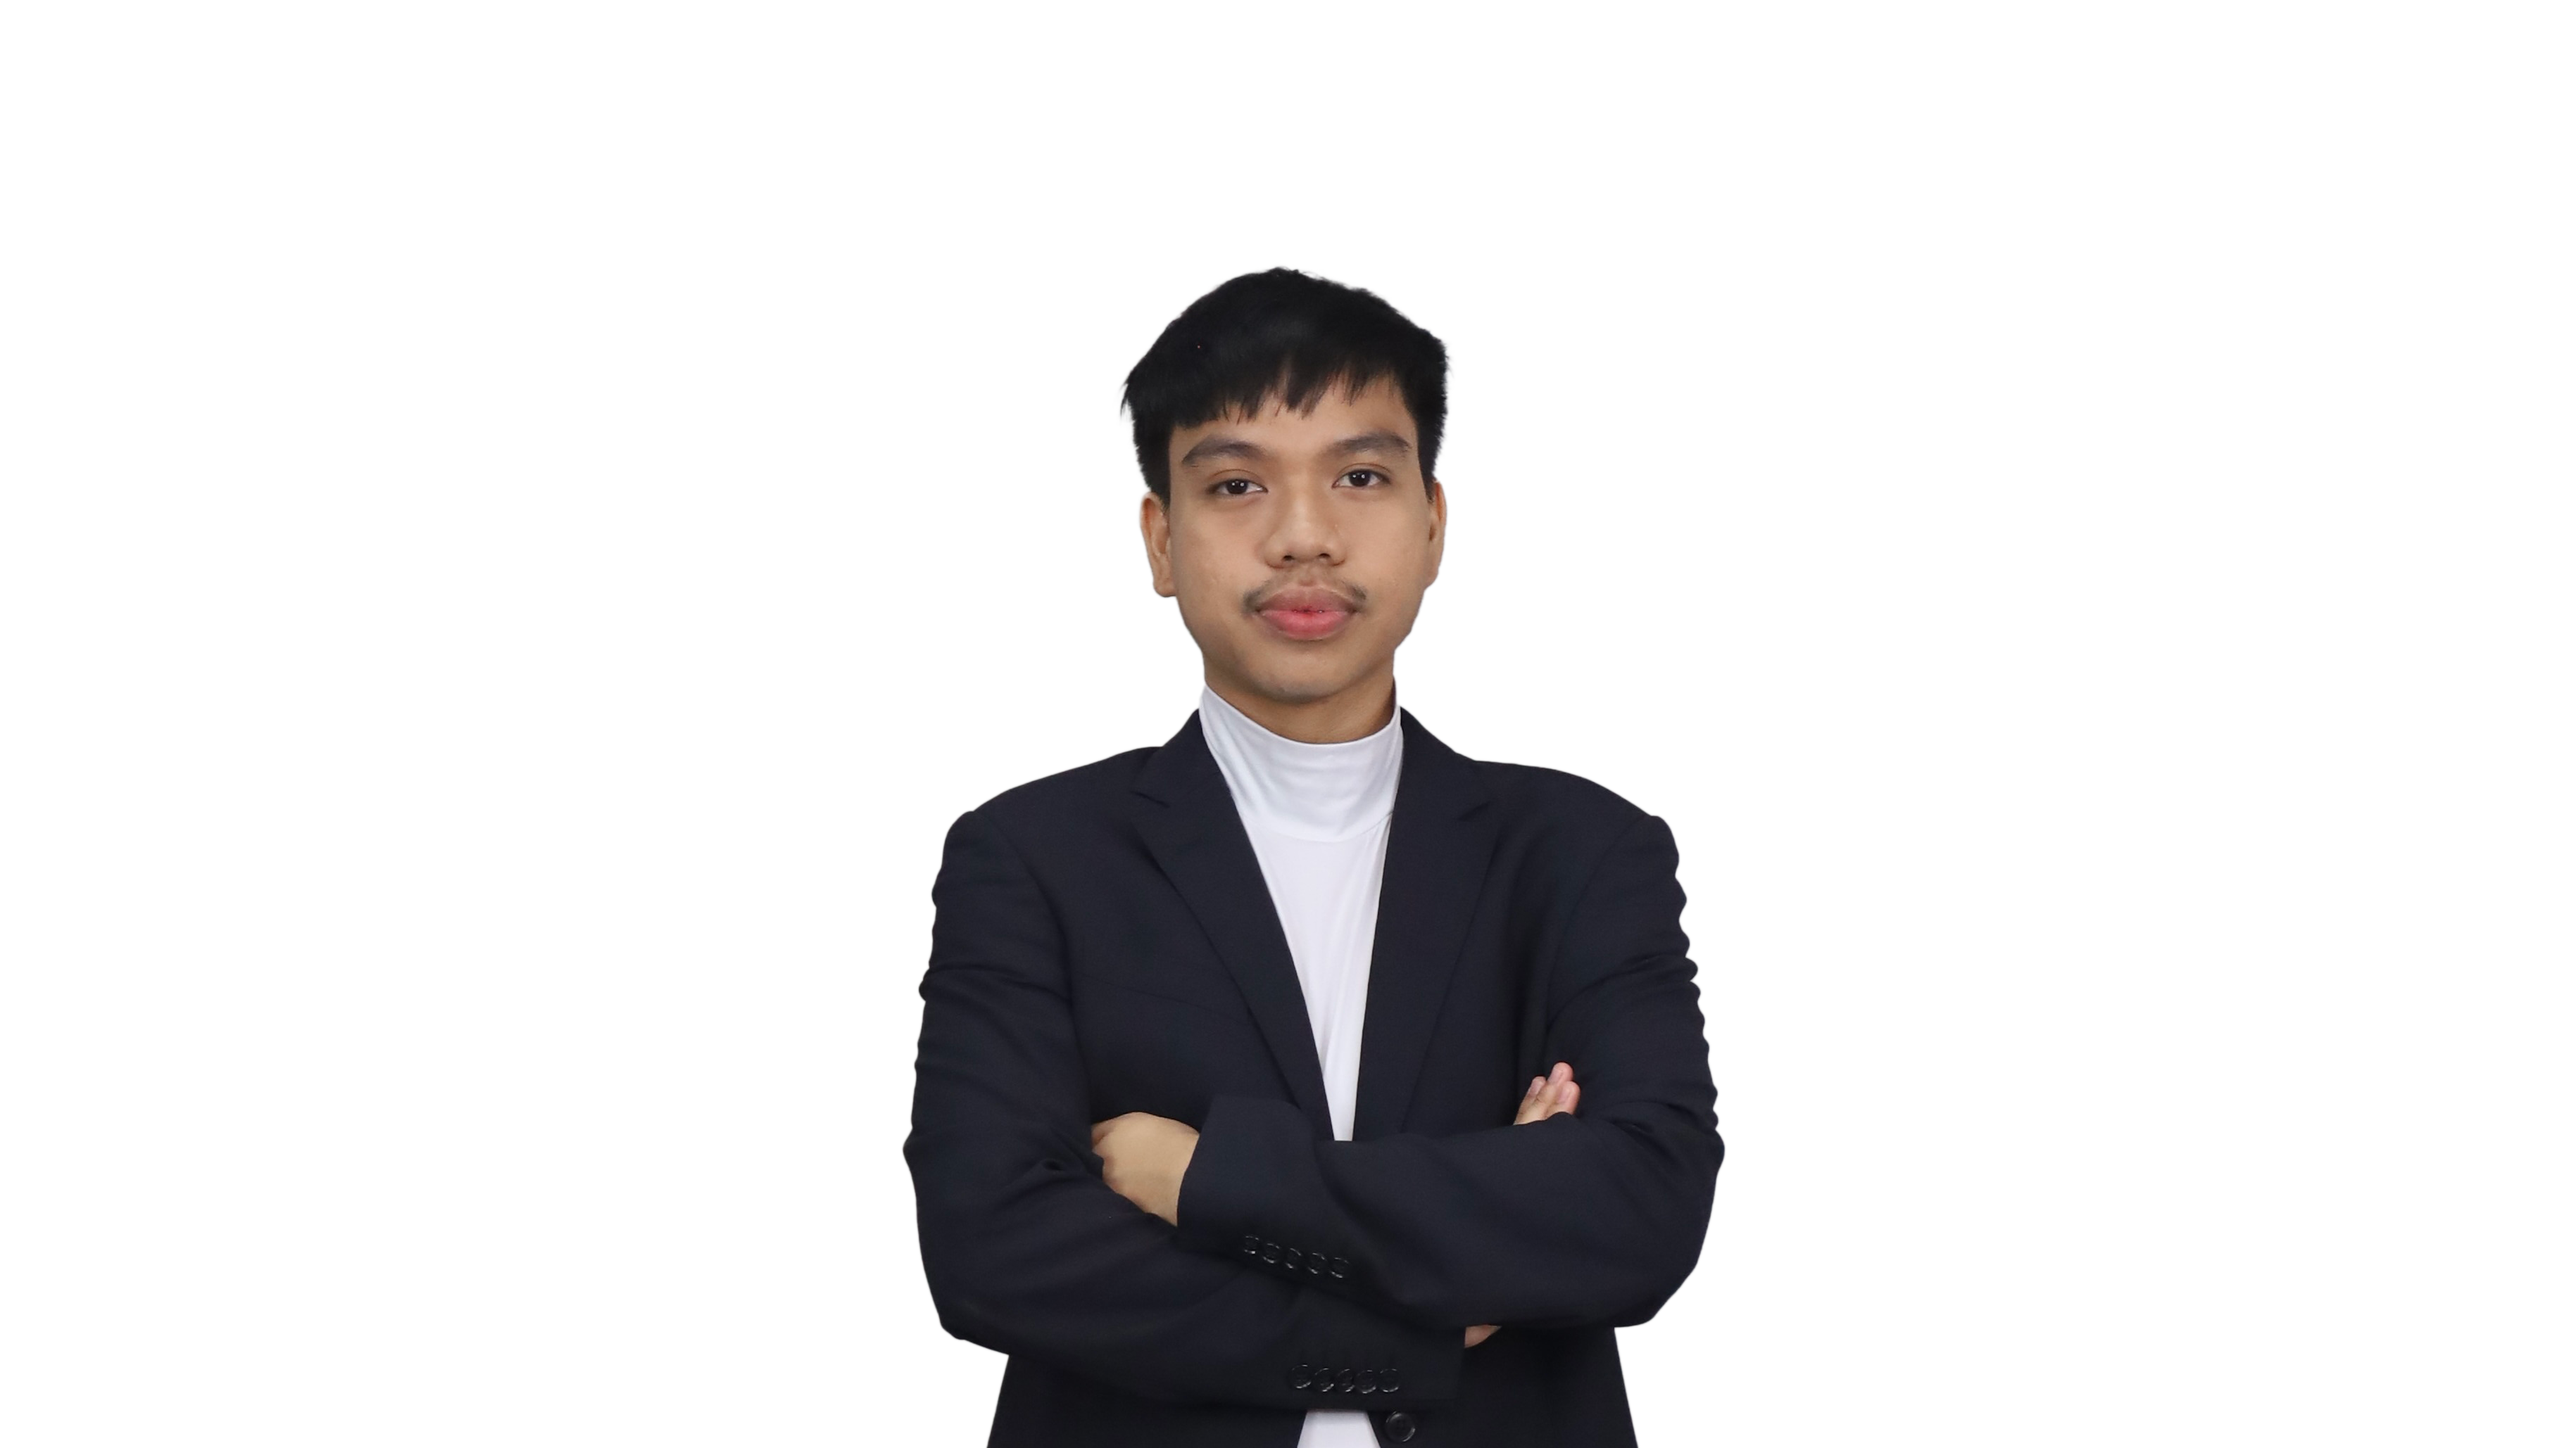
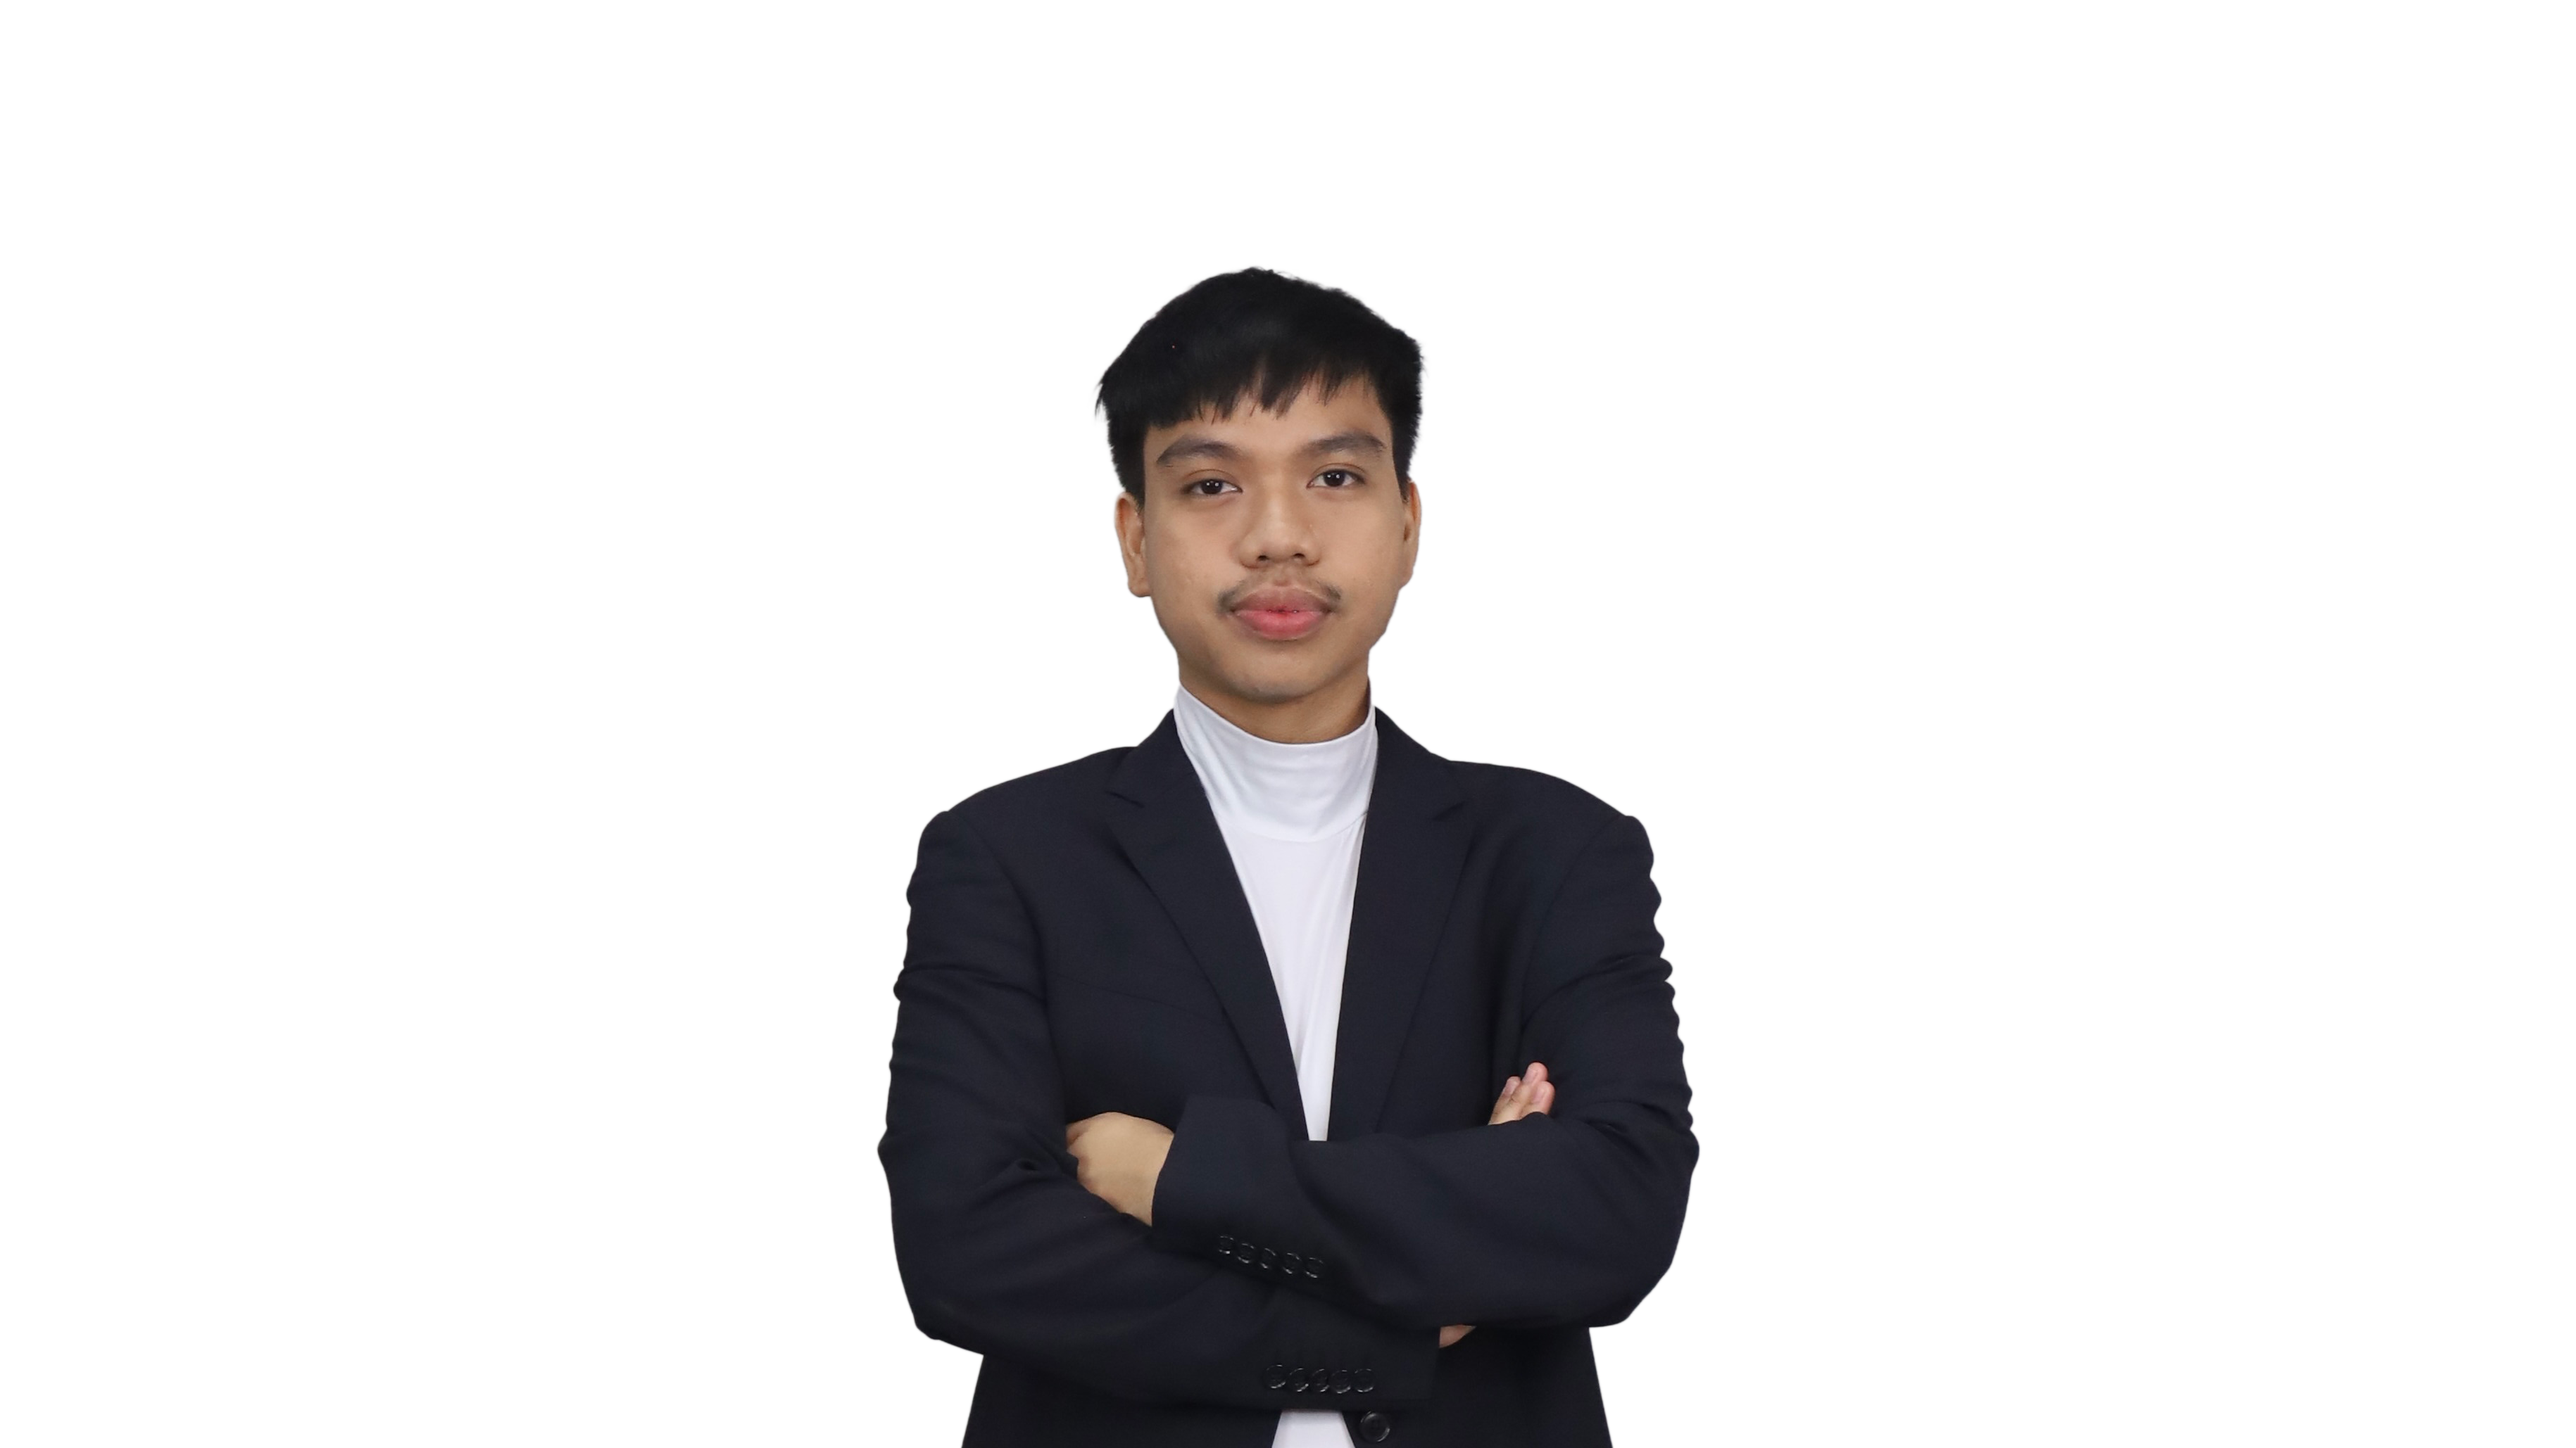
Update hero image file

diff --git a/app/components/Hero.tsx b/app/components/Hero.tsx
@@ -47,7 +47,7 @@ export default function Hero() {
                 <div className="absolute h-screen w-full bg-gradient-hero-bg flex items-end">
                     <GradientLine type="centered" />
                 </div>
-                <div className="h-screen w-full bg-[url(/png/hero-bg.png)] bg-no-repeat bg-local bg-cover bg-bottom dark:brightness-[.30] opacity-70 dark:opacity-100 contrast-[1.2] dark:contrast-[1.05] -z-10"></div>
+                <div className="h-screen w-full bg-[url(/png/hero-img-6.png)] bg-no-repeat bg-local bg-cover bg-bottom dark:brightness-[.30] opacity-70 dark:opacity-100 contrast-[1.2] dark:contrast-[1.05] -z-10"></div>
             </div>
         </div>
     );
